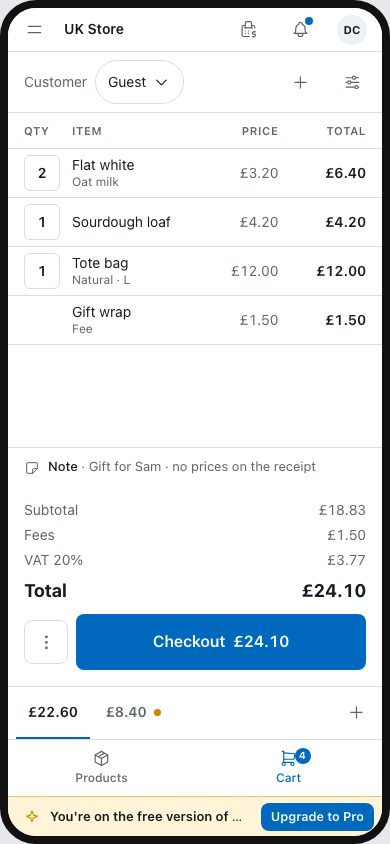
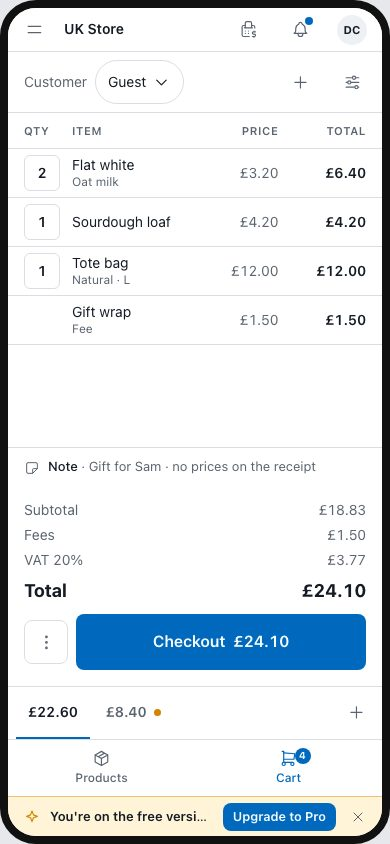
docs: the free strip gets an ×; bell panel approved
Paul: the notifications look good; the banner looks good too, it just
needs an × so users can dismiss it. The strip's × dismisses it for the
session; it is back on the next launch, and a Plan change brings it
back. Capture plan-dismissed.jpg with an assertion. Hub log and Waiting
on Paul, README 43 addendum.

Changed region(s): [[0.4923, 0.9242, 0.9846, 0.9858]]

diff --git a/docs/prototypes/2026-09-12-language/pos-register/index.html b/docs/prototypes/2026-09-12-language/pos-register/index.html
@@ -197,6 +197,7 @@ body{margin:0;background:#e6e8ec;color:#111;font-family:-apple-system,BlinkMacSy
 .upstrip{display:flex;align-items:center;gap:calc(var(--u)*2.5);padding:0 calc(var(--u)*2) 0 calc(var(--u)*4);min-height:40px;background:var(--warn-bg);color:var(--fg);border-bottom:var(--hair) solid color-mix(in oklch,var(--warn) 45%,transparent);flex:none;font-size:calc(var(--fs)*.93)} .upstrip.bottom{border-bottom:0;border-top:var(--hair) solid color-mix(in oklch,var(--warn) 45%,transparent)}
 .upstrip>svg{width:16px;height:16px;flex:none;color:var(--warn)} .upstrip .msg{flex:1;min-width:0;overflow:hidden;text-overflow:ellipsis;white-space:nowrap} .upstrip .msg b{font-weight:600} .upstrip .act{height:28px;padding:0 calc(var(--u)*2.5);border-radius:var(--r);background:var(--primary);color:var(--primary-fg);font-weight:600;font-size:calc(var(--fs)*.9);white-space:nowrap} .upstrip .more{color:var(--muted-fg);white-space:nowrap;text-decoration:underline;text-underline-offset:2px}
 .frame[data-w="phone"] .upstrip .more{display:none}
+.upstrip .x{width:32px;height:32px;border-radius:var(--r);display:grid;place-items:center;color:var(--muted-fg);flex:none;margin-left:calc(var(--u)*-1)} .upstrip .x svg{width:16px;height:16px} .upstrip .x:active{background:color-mix(in oklch,var(--warn) 20%,transparent)}
 .ibtn{position:relative} .ndot{position:absolute;top:9px;right:9px;width:8px;height:8px;border-radius:50%;background:var(--primary);box-shadow:0 0 0 2px var(--card)}
 /* Paul 2026-09-17: the update notice lives in the bell; the bell opens a side panel */
 .sidepanel .bd.notif{padding:0} .ngrp{padding:calc(var(--u)*3) calc(var(--u)*4) calc(var(--u)*1.5);font-size:calc(var(--fs)*.78);font-weight:600;text-transform:uppercase;letter-spacing:.05em;color:var(--muted-fg)}
@@ -540,7 +541,7 @@ const SCENES=[['open','Session open · focus on search'],['added','Line just add
 let termTimer=null;
 function jump(scn){
   clearTimeout(termTimer);
-  Object.assign(S,{scn,panel:false,sheet:null,tender:false,view:'keypad',entry:null,method:'cash',settle:null,online:true,long:false,pop:null,phoneTab:'cart',counted:'',open:'200.00',reveal:null,edit:null,orders:2,ordlist:false,termStep:1,view2:'grid',pview:'products',cats:[],tags:[],menu:false,slide:null,stock:null,feat:false,quick:false});
+  Object.assign(S,{scn,panel:false,sheet:null,tender:false,view:'keypad',entry:null,method:'cash',settle:null,online:true,long:false,pop:null,phoneTab:'cart',counted:'',open:'200.00',reveal:null,edit:null,orders:2,ordlist:false,termStep:1,view2:'grid',pview:'products',cats:[],tags:[],menu:false,slide:null,stock:null,feat:false,quick:false,nostrip:false});
   switch(scn){
     case 'added': S.settle='line'; break;
     case 'line-actions': S.reveal=0; break;
@@ -972,8 +973,8 @@ function render(){
   renderStrip();
   const f=document.getElementById('frame'); f.className='frame'; f.dataset.w=S.w; f.dataset.theme=S.theme; f.dataset.scale=S.scale;
   const oldPane=S.slide&&f.querySelector('.pane:not(.exit-l):not(.exit-r)'); const oldHtml=oldPane?oldPane.outerHTML:null;
-  const strip=(pos)=>`<div class="upstrip ${pos}">${I.spark}<span class="msg"><b>You're on the free version of WCPOS.</b> ${S.w==='phone'?'':'Pro adds receipt templates, held orders, reports and priority support.'}</span><span class="more">See what Pro adds</span><button class="act press">Upgrade to Pro</button></div>`;
-  f.innerHTML=`${S.plan==='top'?strip('top'):''}<div class="body">${S.w==='phone'?'':renderRail()}<div class="main">${renderPOS()}${renderSide()}${renderPanel()}${renderSheet()}</div></div>${S.plan==='bottom'?strip('bottom'):''}`;
+  const strip=(pos)=>`<div class="upstrip ${pos}">${I.spark}<span class="msg"><b>You're on the free version of WCPOS.</b> ${S.w==='phone'?'':'Pro adds receipt templates, held orders, reports and priority support.'}</span><span class="more">See what Pro adds</span><button class="act press">Upgrade to Pro</button><button class="x press" data-act="dismissStrip" aria-label="Dismiss until next launch" title="Dismiss until next launch">${I.x}</button></div>`;
+  f.innerHTML=`${S.plan==='top'&&!S.nostrip?strip('top'):''}<div class="body">${S.w==='phone'?'':renderRail()}<div class="main">${renderPOS()}${renderSide()}${renderPanel()}${renderSheet()}</div></div>${S.plan==='bottom'&&!S.nostrip?strip('bottom'):''}`;
   renderNotes();
   { const bar=f.querySelector('.fbar'); const show=(pl)=>{ if(!pl||!bar) return; const over=pl.offsetLeft+pl.offsetWidth-(bar.scrollLeft+bar.clientWidth)+24; if(over>0) bar.scrollLeft+=over; else if(pl.offsetLeft<bar.scrollLeft+16) bar.scrollLeft=Math.max(0,pl.offsetLeft-16); };
     const mn=f.querySelector('.fwrap .menu'); const pl=mn&&f.querySelector(`.pill[data-menu="${S.menu}"]`); if(pl) show(pl); else if(S.quick) show(f.querySelector('.pill.q.on'));
@@ -990,7 +991,7 @@ document.addEventListener('click',e=>{
   const b=e.target.closest('[data-set],[data-scn],[data-act],[data-tx],[data-txall]');
   if(S.dragged){ S.dragged=false; return; }   /* the click that follows a swipe must not close what the swipe opened */
   if(!b){ if(!e.target.closest('[data-stop]') && (S.pop||S.ordlist||S.reveal!=null||S.edit!=null||S.qx!=null||S.menu)){ S.pop=null; S.menu=false; S.ordlist=false; S.reveal=null; S.edit=null; S.qx=null; S.qbuf=''; render(); } return; }
-  if(b.dataset.set){ const v=b.dataset.v; S[b.dataset.set]=(v==='1'||v==='3')?+v:v; render(); return; }
+  if(b.dataset.set){ const v=b.dataset.v; S[b.dataset.set]=(v==='1'||v==='3')?+v:v; if(b.dataset.set==='plan') S.nostrip=false; render(); return; }
   if(b.dataset.tx){ S.tx[b.dataset.tx]=S.tx[b.dataset.tx]?0:1; render(); return; }
   if(b.dataset.txall!==undefined){ const v=+b.dataset.txall; Object.keys(S.tx).forEach(k=>S.tx[k]=v); render(); return; }
   if(b.dataset.scn && !b.dataset.act){ jump(b.dataset.scn); return; }
@@ -1016,6 +1017,7 @@ document.addEventListener('click',e=>{
     case 'openPanel': S.panel=true; break;
     case 'closePanel': if(e.target.closest('[data-stop]') && !b.classList.contains('ibtn')) return; S.panel=false; break;
     case 'openSheet': S.sheet=b.dataset.sheet; S.reveal=null; break;
+    case 'dismissStrip': S.nostrip=true; break;   /* Paul 2026-09-17: the strip has an ×; gone for the session, back on the next launch */
     case 'closeSheet': if(e.target.closest('[data-stop]') && !b.classList.contains('ibtn') && !b.classList.contains('btn')) return; S.sheet=null; if(S.scn==='closure') S.scn='closed'; break;
     case 'startCount': S.panel=false; S.scn='counting'; S.counted=''; break;
     case 'doOpen': S.scn='open'; break;

diff --git a/docs/prototypes/2026-09-12-language/index.html b/docs/prototypes/2026-09-12-language/index.html
@@ -55,6 +55,7 @@ kbd{font:inherit;font-size:12px;background:#f3f4f6;border:1px solid #d1d5db;bord
   <h2>What changed</h2>
   <div class="meta">Newest first. Every push adds a line here; the date is the day it landed.</div>
   <div class="log">
+    <div><time>2026-09-17 · later 22</time><span><b>Notifications approved; the strip gets an ×.</b> Paul: the notifications look good, the banner looks good too, it just needs an × so users can dismiss it. Done: an × at the right end of the strip, gone for the session and back on the next launch (the point of the strip is that it comes back). Capture <code>pos-register/screens/variants/plan-dismissed.jpg</code>. Top is what Paul approved on the register; bottom stays on the switch until he says the word.</span></div>
     <div><time>2026-09-17 · later 21</time><span><b>Update in the bell, free strip top or bottom.</b> Paul: the update notice goes in the bell notifications, which open in a side panel; the free banner is meant to be slightly annoying and belongs in a strip at the top or bottom; check Mobbin. Done on the register: the bell above the cart carries a dot and opens a slide-out from the right, the update at its head with <i>Update now</i> and <i>Later</i>, ordinary notifications below (<kbd>Update</kbd> switch to see it without). A <kbd>Plan</kbd> switch draws the free strip at the top, at the bottom, or not at all. Second Mobbin sweep on the <a href="#banners">banners board</a>: strips at the top in Circle, Fireflies, Descript and Rox, at the bottom in Readymag; notification side panels in Time2book, Hootsuite, Savee, Aboard, QuickBooks, Magnific. Recommendation: top. Captures <code>pos-register/screens/variants/plan-*.jpg</code> and <code>notif-*.jpg</code>.</span></div>
     <div><time>2026-09-17 · later 20</time><span><b>Phosphor joins.</b> Paul: include Phosphor, the missing cart glyphs are not important; which themes should have it? Now a rule of the theme: Phosphor on Paper till, Bold money, Ocean and Sunset; Hugeicons on Market stall and Warm shop; Tabler 1.5 px on Default light, Default dark and Monochrome. Captures for every theme in <code>pos-register/screens/variants/theme-*.jpg</code>.</span></div>
     <div><time>2026-09-17 · later 19</time><span><b>Dark Stage gone; icons follow the theme.</b> Paul: drop Dark Stage, it is too close to the default dark; the default themes take Tabler 1.5 px, Market stall and Warm shop take Hugeicons. Done as a rule: the Icons switch is gone and the set follows the theme. On which other sets had every icon: from the 2026-09-16 research, Tabler (131 of 133 direct, the other two under other names) and Hugeicons (132) are the only two with full coverage; Phosphor is close (126, missing the cart-plus and cart-check pair), Solar and Iconoir are well short.</span></div>
@@ -109,7 +110,7 @@ kbd{font:inherit;font-size:12px;background:#f3f4f6;border:1px solid #d1d5db;bord
 <section id="ask">
   <h2>Waiting on Paul</h2>
   <div class="ask"><ol>
-    <li><b>Free strip, top or bottom:</b> both under <kbd>Plan</kbd> on the register. Top is the recommendation: it is where every strip on Mobbin sits, it pushes the toolbar rather than the Pay button, and the customer-facing edge of the screen is usually the bottom.</li>
+    <li><b>Free strip, top or bottom:</b> Paul approved the strip as drawn (top, now with an ×). Say "top" or "bottom" and the switch goes.</li>
     <li><b>Order note:</b> row above the totals, last row of the cart, or a chip by the customer; all three under <kbd>Order note</kbd> on the register. Row is the recommendation (today's place, a hairline quieter).</li>
     <li><b>Add to cart:</b> ruled: the row is the button; the last column keeps the + (chevron for variable) which becomes the count. Quantity lives on the cart line.</li>
     <li><b>Cart line:</b> decided and live (quick edit · expanding quantity at touch size · swipe the total). One detail to confirm: a click on the total opening the strip on desktop, beside the hover nudge.</li>

diff --git a/docs/prototypes/2026-09-12-language/pos-register/shoot-variants.js b/docs/prototypes/2026-09-12-language/pos-register/shoot-variants.js
@@ -17,6 +17,8 @@ fs.rmSync(OUT, { recursive: true, force: true }); fs.mkdirSync(OUT, { recursive:
   await set('w', 'tablet'); await set('theme', 'light'); await set('scale', 'regular');
   // the free strip, top or bottom (Paul 2026-09-17: a banner, slightly annoying on purpose); and the bell panel with the update at its head
   for (const w of ['tablet', 'phone']) { await set('w', w); await scn('open'); for (const pl of ['top', 'bottom']) { await set('plan', pl); await shot(`plan-${pl}-${w}`); if (!(await page.locator(`.upstrip.${pl}`).count())) throw new Error('strip not drawn: ' + pl); } }
+  await set('w', 'tablet'); await set('plan', 'top'); await page.click('.upstrip [data-act="dismissStrip"]'); await page.waitForTimeout(100); if (await page.locator('.upstrip').count()) throw new Error('strip still drawn after ×'); await shot('plan-dismissed');
+  await set('plan', 'bottom'); if (!(await page.locator('.upstrip.bottom').count())) throw new Error('strip did not come back on a plan change');
   await set('plan', 'pro'); if (await page.locator('.upstrip').count()) throw new Error('strip still drawn on pro');
   for (const w of ['tablet', 'desktop', 'phone']) { await set('w', w); await scn('open'); if (!(await page.locator('.bar .ndot').count())) throw new Error('bell has no dot: ' + w); await page.click('.bar [data-sheet="notif"]'); await page.waitForTimeout(300); if (!(await page.locator('.sidepanel .nitem.upd').count())) throw new Error('update not at the head of the panel: ' + w); await shot(`notif-${w}`); await page.click('.sidepanel [data-act="closeSheet"].ibtn'); }
   await set('w', 'tablet'); await scn('open'); await page.click('.bar [data-sheet="notif"]'); await page.click('.nitem.upd [data-set="upd"]'); await page.waitForTimeout(200);

diff --git a/docs/prototypes/2026-09-12-language/README.md b/docs/prototypes/2026-09-12-language/README.md
@@ -160,6 +160,10 @@ Added in cut 2 of the register (2026-09-14, after Paul's nine points):
     side panel. **Recommendation: top.** Every strip on Mobbin sits there; it pushes the toolbar
     down rather than the Pay button up; and the top edge is the cashier's, the bottom edge is the
     one a customer-facing screen shows. Top or bottom not decided.
+    **Paul (2026-09-17, later): the notifications look good; the banner looks good, it just
+    needs an × so users can dismiss it.** Decided: the bell panel as drawn. The strip gains an ×
+    at its right end: dismissed for the session, back on the next launch. Top is what he approved
+    on the register; the bottom option stays on the switch until he names one.
 
 44. **The order note (2026-09-17).** Paul: today a note sits under the totals with a bubble
     glyph; how do we show it? Three homes on the register's `Order note` switch: a row above the
